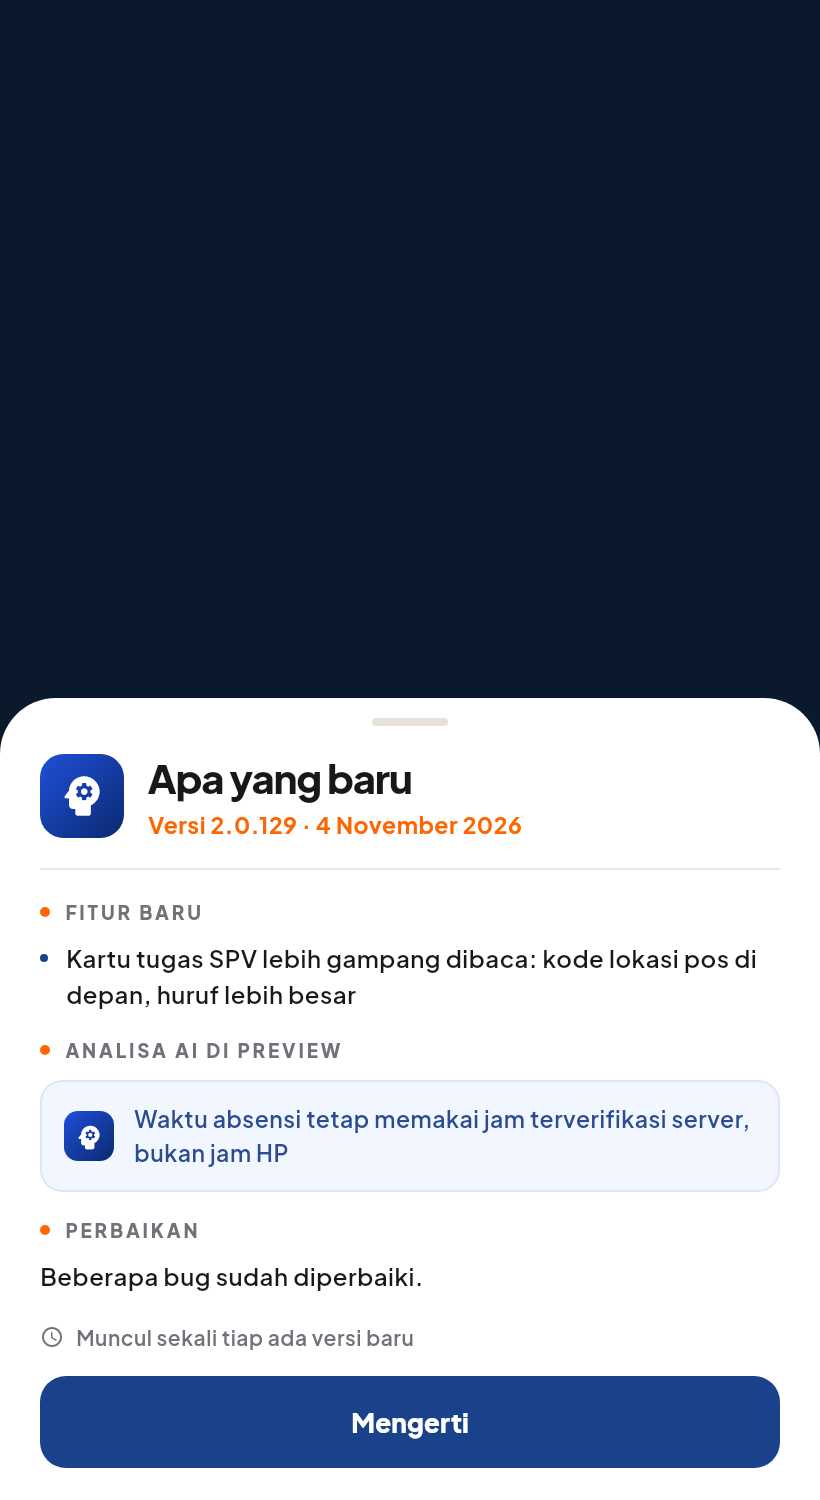
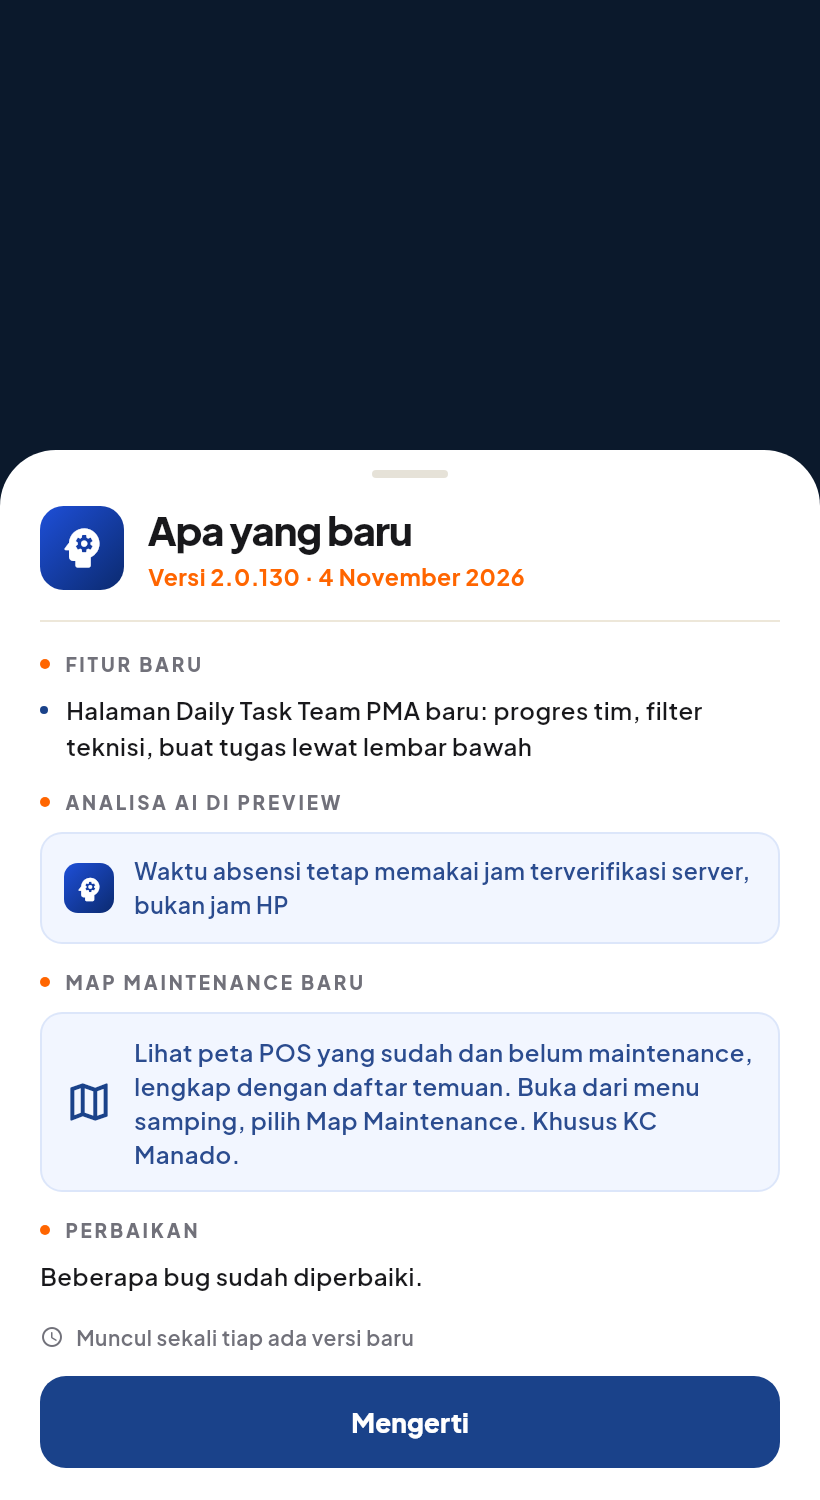
chore(release): 2.0.130+2143

Changed region(s): [[0.0, 0.276, 1.0, 0.7973]]

diff --git a/lib/features/whats_new/widgets/whats_new_sheet.dart b/lib/features/whats_new/widgets/whats_new_sheet.dart
@@ -133,13 +133,7 @@ class WhatsNewSheet extends StatelessWidget {
               const SizedBox(height: 8),
               Container(
                 padding: const EdgeInsets.symmetric(horizontal: 11, vertical: 10),
-                decoration: BoxDecoration(
-                  color: dark ? AppColors.darkSurfaceContainer : const Color(0xFFF2F6FF),
-                  borderRadius: BorderRadius.circular(11),
-                  border: Border.all(
-                    color: dark ? AppColors.darkBorderMuted : const Color(0xFFDCE6FA),
-                  ),
-                ),
+                decoration: _noteBoxDecoration(dark),
                 child: Row(
                   crossAxisAlignment: CrossAxisAlignment.center,
                   children: [
@@ -150,6 +144,38 @@ class WhatsNewSheet extends StatelessWidget {
                         release.aiNote!,
                         style: TextStyle(
                           fontSize: 11.5,
+                          fontWeight: FontWeight.w600,
+                          height: 1.45,
+                          color: dark ? AppColors.textDarkSecondary : const Color(0xFF2B4C8F),
+                        ),
+                      ),
+                    ),
+                  ],
+                ),
+              ),
+            ],
+
+            if (release.mapNote != null) ...[
+              const SizedBox(height: 12),
+              _SectionLabel('Map Maintenance baru', textMuted),
+              const SizedBox(height: 8),
+              Container(
+                padding: const EdgeInsets.symmetric(horizontal: 11, vertical: 10),
+                decoration: _noteBoxDecoration(dark),
+                child: Row(
+                  crossAxisAlignment: CrossAxisAlignment.center,
+                  children: [
+                    Icon(
+                      Icons.map_outlined,
+                      size: 25,
+                      color: dark ? AppColors.primaryLight : AppColors.primary,
+                    ),
+                    const SizedBox(width: 10),
+                    Expanded(
+                      child: Text(
+                        release.mapNote!,
+                        style: TextStyle(
+                          fontSize: 12,
                           fontWeight: FontWeight.w600,
                           height: 1.45,
                           color: dark ? AppColors.textDarkSecondary : const Color(0xFF2B4C8F),
@@ -210,6 +236,16 @@ class WhatsNewSheet extends StatelessWidget {
             ),
           ],
         ),
+      ),
+    );
+  }
+
+  BoxDecoration _noteBoxDecoration(bool dark) {
+    return BoxDecoration(
+      color: dark ? AppColors.darkSurfaceContainer : const Color(0xFFF2F6FF),
+      borderRadius: BorderRadius.circular(11),
+      border: Border.all(
+        color: dark ? AppColors.darkBorderMuted : const Color(0xFFDCE6FA),
       ),
     );
   }

diff --git a/lib/data/services/whats_new_service.dart b/lib/data/services/whats_new_service.dart
@@ -8,6 +8,7 @@ class WhatsNewRelease {
   final String date;
   final List<String> features;
   final String? aiNote;
+  final String? mapNote;
   final String bugfix;
 
   const WhatsNewRelease({
@@ -15,6 +16,7 @@ class WhatsNewRelease {
     required this.date,
     required this.features,
     this.aiNote,
+    this.mapNote,
     required this.bugfix,
   });
 }
@@ -28,13 +30,15 @@ class WhatsNewService {
 
   /// Diisi ulang tiap versi naik, bareng bump di pubspec.yaml.
   static const WhatsNewRelease current = WhatsNewRelease(
-    version: '2.0.129',
+    version: '2.0.130',
     date: '4 November 2026',
     features: [
-      'Kartu tugas SPV lebih gampang dibaca: kode lokasi pos di depan, huruf lebih besar',
+      'Halaman Daily Task Team PMA baru: progres tim, filter teknisi, buat tugas lewat lembar bawah',
     ],
     aiNote:
         'Waktu absensi tetap memakai jam terverifikasi server, bukan jam HP',
+    mapNote:
+        'Lihat peta POS yang sudah dan belum maintenance, lengkap dengan daftar temuan. Buka dari menu samping, pilih Map Maintenance. Khusus KC Manado.',
     bugfix: 'Beberapa bug sudah diperbaiki.',
   );
 

diff --git a/test/whats_new_service_test.dart b/test/whats_new_service_test.dart
@@ -71,5 +71,6 @@ void main() {
     expect(release.features.every((f) => f.trim().isNotEmpty), isTrue);
     expect(release.bugfix.trim(), isNotEmpty);
     expect(release.aiNote, isNotNull);
+    expect(release.mapNote, isNotNull);
   });
 }

diff --git a/CHANGELOG.md b/CHANGELOG.md
@@ -2,6 +2,22 @@
 
 Semua pembaruan, perbaikan bug, dan penambahan fitur aplikasi **BSS Parking TimeMark** dicatat secara kronologis di dokumen ini.
 
+## [2.0.130+2143] - 2026-11-04
+
+### 🎯 Highlight Utama
+1. **Redesign Halaman Daily Task Team PMA**:
+   - Tampilan utama bebas tab: header ringkas dengan progres ring tim, filter status (Semua, Belum, Selesai), dan filter teknisi langsung di layar utama.
+   - Form pembuatan tugas berpindah ke lembar bawah (modal bottom sheet) yang dibuka lewat tombol Buat Tugas, lengkap dengan pilihan kategori Rutin, Maintenance, dan Tugas Khusus dalam satu baris rapi.
+   - Kartu tugas dilengkapi aksen status di sisi kiri, posisi pill status rata dengan menu tiga titik (kebab), serta warna dan kontras yang disesuaikan untuk tema gelap.
+2. **Layar Apa yang Baru dengan Bagian Map Maintenance**:
+   - Menambahkan ringkasan Map Maintenance pada layar Apa yang Baru untuk memudahkan teknisi KC Manado memantau lokasi POS yang sudah dan belum maintenance.
+3. **Verifikasi & Build**:
+   - `flutter analyze`: 0 issues found.
+   - `flutter test`: 546 test LULUS, 3 skipped.
+   - APK rilis split-per-abi ARM64 dan ARM32 serta deploy web produksi ke Vercel.
+
+---
+
 ## [2.0.129+2142] — 2026-11-04
 
 ### 🎯 Highlight Utama
